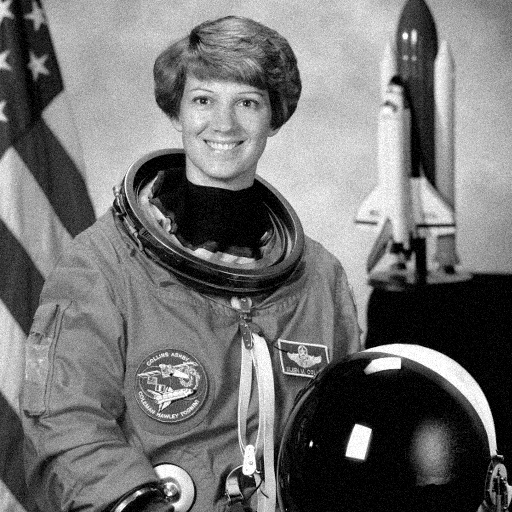
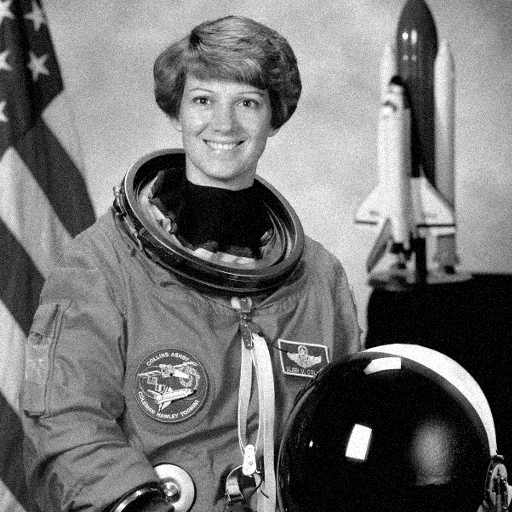
Parallelized implementation working on 32x32 patches

diff --git a/tgv_template.py b/tgv_template.py
@@ -118,15 +118,42 @@ def tgv_denoise(u0, lam=1.0, alpha0=2.0, alpha1=1.0, tau=0.125, sigma=0.125, n_i
         u_bar = 2 * u - u_old
         w_bar = 2 * w - w_old
 
-        # Optional: print the energy every 50 iterations
-        if (i+1) % 50 == 0:
-            # Compute the residuals (this is just indicative)
-            primal_res = np.linalg.norm(u - u_old)
-            # print(f"Iteration {i+1:03d}, primal change = {primal_res:.4e}")
-            print("Iteration %03d, primal change = %0.4e" % (i+1, primal_res))
+        # # Optional: print the energy every 50 iterations
+        # if (i+1) % 50 == 0:
+        #     # Compute the residuals (this is just indicative)
+        #     primal_res = np.linalg.norm(u - u_old)
+        #     # print(f"Iteration {i+1:03d}, primal change = {primal_res:.4e}")
+        #     print("Iteration %03d, primal change = %0.4e" % (i+1, primal_res))
 
     return u
 
+
+from joblib import Parallel, delayed
+import os
+def parallel_tgv_denoise(u0, lam=1.0, alpha0=2.0, alpha1=1.0, tau=0.125, sigma=0.125, n_iter=300):
+    patch_size = 32
+    
+    H, W = u0.shape
+    num_patches_x = H // patch_size
+    num_patches_y = W // patch_size
+
+    # Create a vector to store the denoised patches
+    patches = []
+    for i in range(num_patches_x):
+        for j in range(num_patches_y):
+            patches.append(u0[i*patch_size:(i+1)*patch_size, j*patch_size:(j+1)*patch_size])
+
+    # Create a vector to store the denoised patches
+    denoised_patches = Parallel(n_jobs=os.cpu_count())(delayed(tgv_denoise)(patch, lam, alpha0, alpha1, tau, sigma, n_iter) for patch in patches)
+
+    # Create a new image to store the denoised patches
+    denoised_img = np.zeros((H, W))
+    for i in range(num_patches_x):
+        for j in range(num_patches_y):
+            denoised_img[i*patch_size:(i+1)*patch_size, j*patch_size:(j+1)*patch_size] = denoised_patches[i*num_patches_y + j]
+
+    return denoised_img
+    
 
 if __name__ == "__main__":
     img = np.array(Image.open("astronaut.png"))
@@ -137,10 +164,10 @@ if __name__ == "__main__":
     noisy_img = np.clip(img, 0, 255).astype(np.uint8)
     Image.fromarray(noisy_img, mode='L').save("noisy_img_py.png")
     print(noisy_img.min(), noisy_img.max())
-    time = timeit.timeit(lambda: tgv_denoise(noisy_img.astype(np.float32), 10., 2.0, 1.0, 0.125, 0.125, 300), number=5)
+    time = timeit.timeit(lambda: parallel_tgv_denoise(noisy_img.astype(np.float32), 10., 2.0, 1.0, 0.125, 0.125, 300), number=5)
     avg_time = time / 5
-    print(f"Time taken: {avg_time} seconds on 10 runs of 300 iterations on average")
-    denoised_img = tgv_denoise(noisy_img.astype(np.float32), 10., 2.0, 1.0, 0.125, 0.125, 300)
+    print(f"Time taken: {avg_time} seconds on 5 runs of 300 iterations on average")
+    denoised_img = parallel_tgv_denoise(noisy_img.astype(np.float32), 10., 2.0, 1.0, 0.125, 0.125, 300)
     print(denoised_img.min(), denoised_img.max())
     denoised_img = np.clip(denoised_img, 0, 255).astype(np.uint8)
     Image.fromarray(denoised_img, mode='L').save("denoised_img_py.png")

diff --git a/src/main.rs b/src/main.rs
@@ -6,7 +6,7 @@ use ndarray_rand::RandomExt;
 use ndarray_rand::rand_distr::Normal;
 use image::{RgbImage, GrayImage};
 use nshare::{self, AsNdarray3};
-
+use rayon::prelude::*;
 // fn print_shape(a: Array[T, T]) {
 //     let shape = a.shape();
 //     println!("array shape {}", shape.to_vec());
@@ -141,12 +141,45 @@ fn tgv_denoise(u0: &ArrayView2<f32>, lam: f32, alpha0: f32, alpha1: f32, tau: f3
         u_bar = 2. * &u - &u_old;
         w_bar = 2. * &w - &w_old;
 
-        if i % 50 == 0 {
-            let primal_res = (&u - u_old).norm();
-            println!("Iteration {:?}, primal change = {:?}", i, primal_res);
-        }
+        // if i % 50 == 0 {
+        //     let primal_res = (&u - u_old).norm();
+        //     println!("Iteration {:?}, primal change = {:?}", i, primal_res);
+        // }
     }
     u
+}
+
+
+fn parallel_tgv_denoise(u0: &ArrayView2<f32>, lam: f32, alpha0: f32, alpha1: f32, tau: f32, sigma: f32, n_iter: i32) -> Array2<f32> {
+    // Split the image into patches
+    let patch_size = 32;
+    let num_patches_x = u0.shape()[0] / patch_size;
+    let num_patches_y = u0.shape()[1] / patch_size;
+
+    // Create a vector to store the denoised patches
+    // let mut patches: Array3<f32> = Array3::<f32>::zeros((num_patches_x * num_patches_y, patch_size, patch_size));
+    let mut patches = Vec::new();
+    for i in 0..num_patches_x {
+        for j in 0..num_patches_y {
+            // let mut patch_slice = patches.slice_mut(s![i * num_patches_y + j, .., ..]);
+            // patch_slice.assign(&u0.slice(s![(i * patch_size)..((i + 1) * patch_size), (j * patch_size)..((j + 1) * patch_size)]));
+            patches.push(u0.slice(s![(i * patch_size)..((i + 1) * patch_size), (j * patch_size)..((j + 1) * patch_size)]).to_owned());
+        }
+    }
+
+    let denoised_patches: Vec<Array2<f32>> = patches.par_iter().map(|patch| {
+        tgv_denoise(&patch.view(), lam, alpha0, alpha1, tau, sigma, n_iter)
+    }).collect();
+
+    // Create a new image to store the denoised patches
+    let mut denoised_img = Array2::<f32>::zeros((u0.shape()[0], u0.shape()[1]));
+    for i in 0..num_patches_x {
+        for j in 0..num_patches_y {
+            denoised_img.slice_mut(s![(i * patch_size)..((i + 1) * patch_size), (j * patch_size)..((j + 1) * patch_size)]).assign(&denoised_patches[i * num_patches_y + j]);
+        }
+    }
+
+    return denoised_img;
 }
 
 fn main() {
@@ -188,7 +221,7 @@ fn main() {
     let noisy_img = GrayImage::from_raw(img.shape()[0] as u32, img.shape()[1] as u32, (&grayscale_img).into_iter().map(|x| *x as u8).collect()).unwrap();
     noisy_img.save("noisy_img.png").unwrap();
 
-    let avg_time = timeit::timeit_loops!(5, {tgv_denoise(&grayscale_img.view(), 10.0, 2.0, 1.0, 0.125, 0.125, 300);});
+    let avg_time = timeit::timeit_loops!(5, {parallel_tgv_denoise(&grayscale_img.view(), 10.0, 2.0, 1.0, 0.125, 0.125, 300);});
     println!("Time taken: {:?} seconds on 5 runs of 300 iterations on average", avg_time);
 
 

diff --git a/README.md b/README.md
@@ -8,8 +8,15 @@ Basic benchmark (M1 Mac Mini Late 2020):
 Rust: 4.34 seconds
 Python: 4.80 seconds
 
+Parallelized version working on 32x32 patches:
+Rust (rayon): 0.37 seconds
+Python (joblib): 2.2 seconds
+
 Roadmap:
 - [x] Basic working version
 - [x] Add basic benchmarks vs Python implementation
+- [X] Parallelize the denoising on patches
+- [X] Parallel benchmarks vs Python implementation
+- [ ] Handle patch overlaps to avoid edge effects
 - [ ] Package as CLI tool
 
